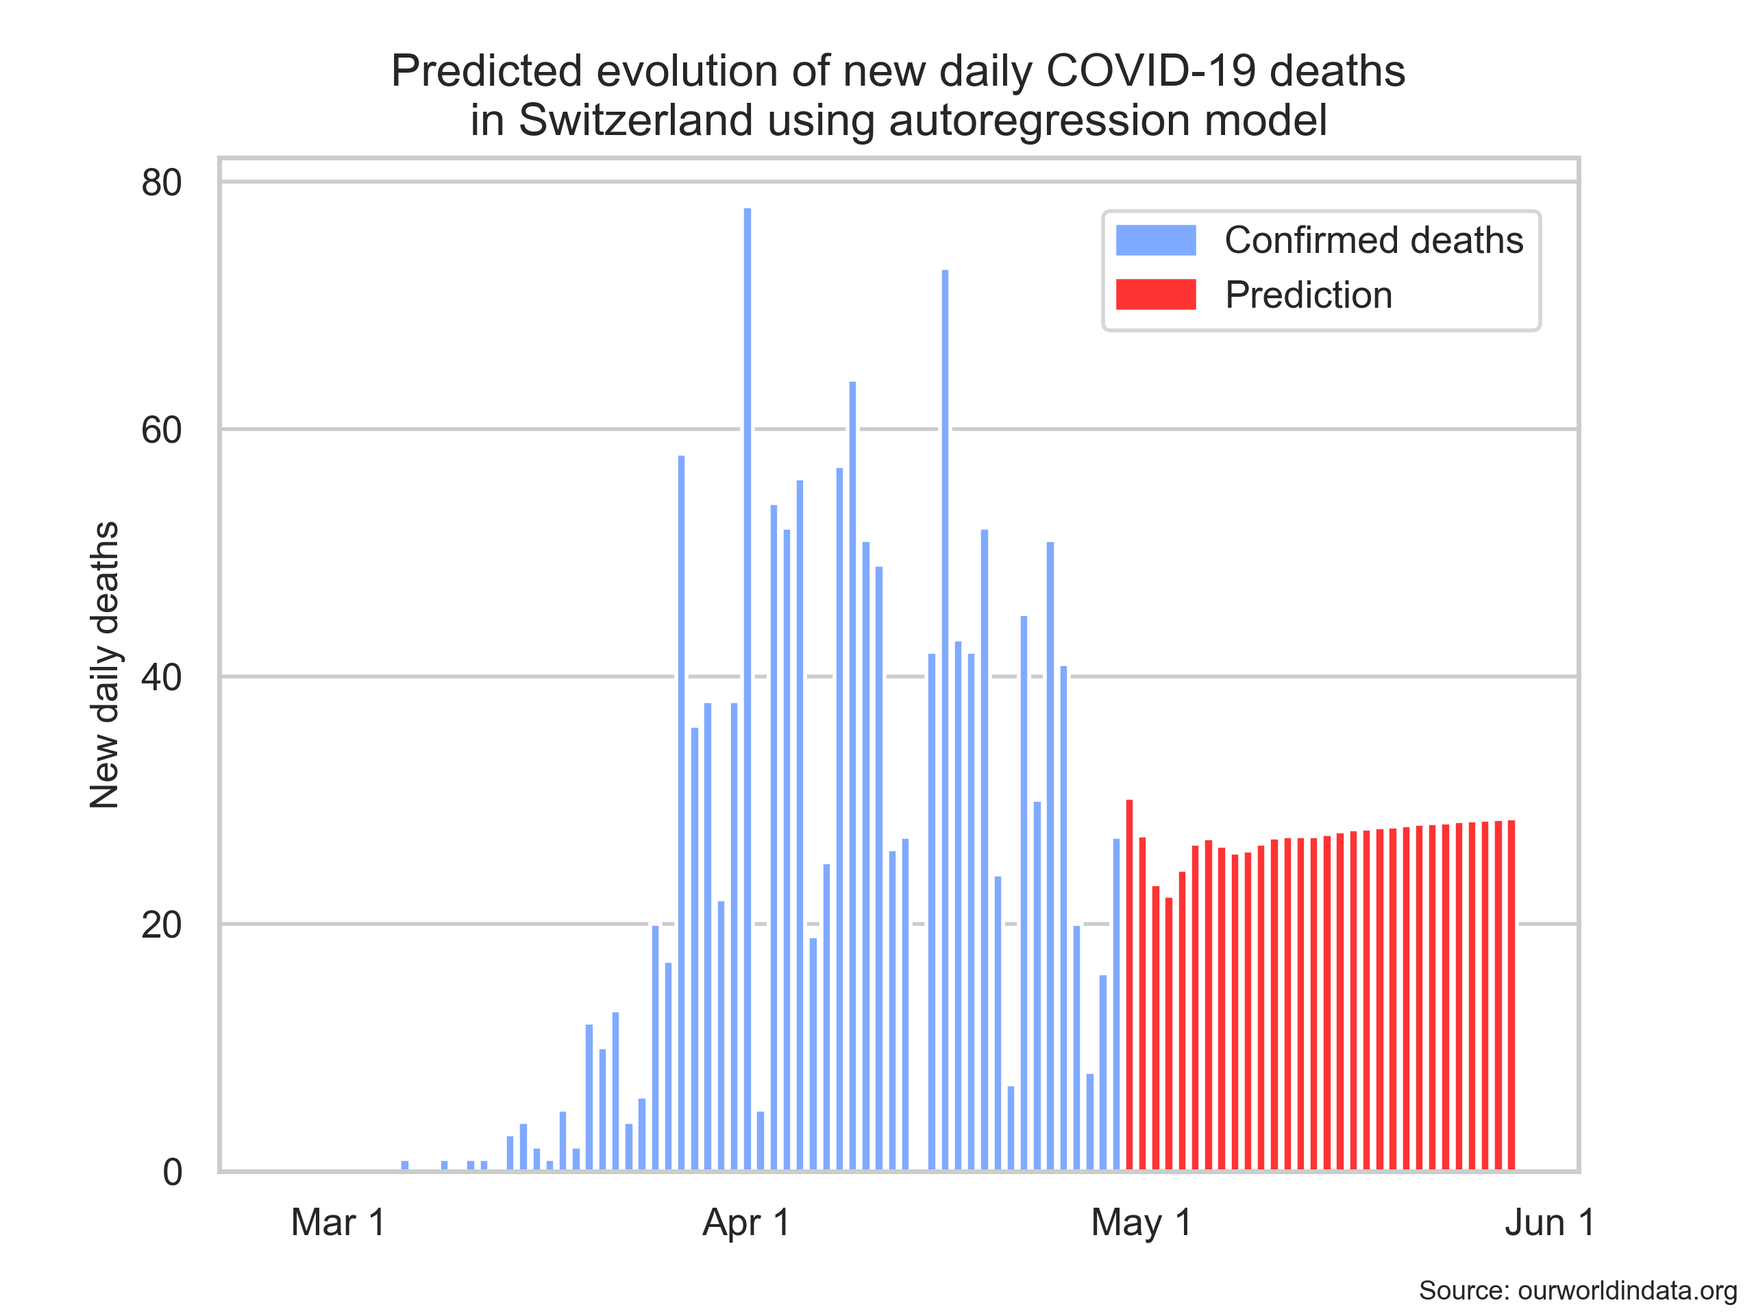
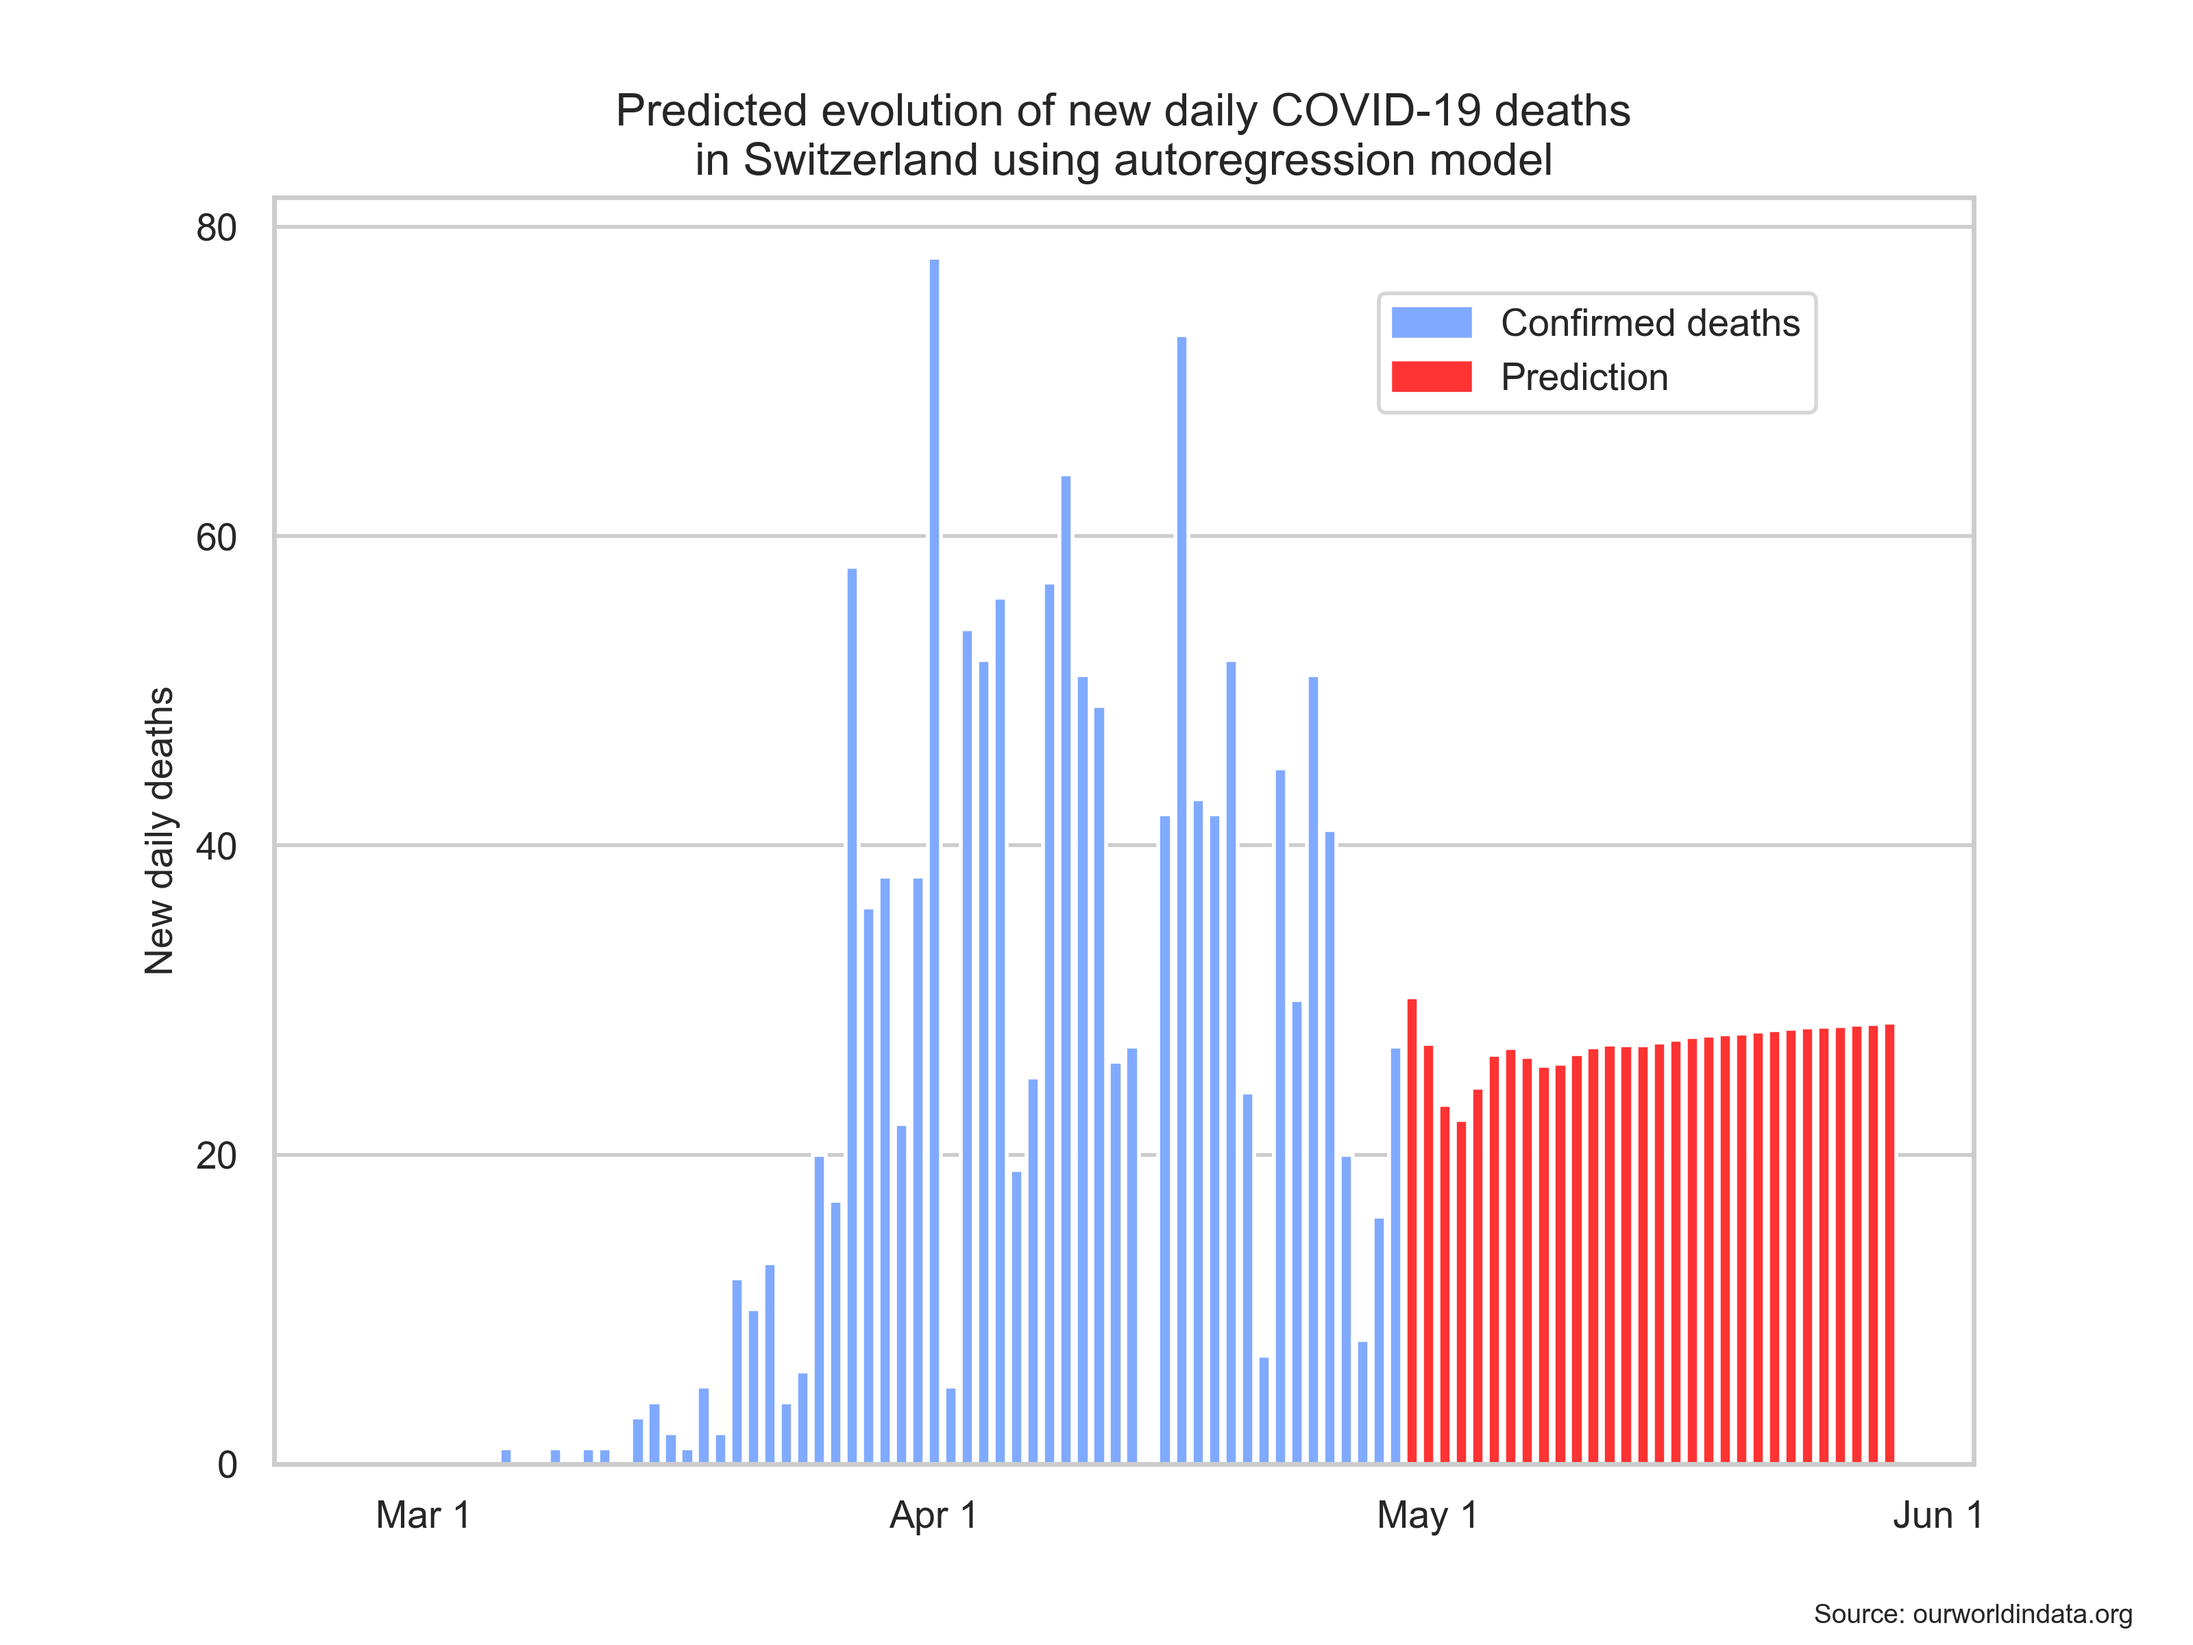
up

diff --git a/peter_work_in_progress/utils.py b/peter_work_in_progress/utils.py
@@ -15,7 +15,7 @@ def convert_dates(data):
         data.at[index,'date'] = row['date'][-2:] + months[row['date'][5:7]]
     return data
 
-def save_ch_neighbours(filename='ourworldindatadeathetc.csv'):
+def save_ch_neighbours(anim=False, filename='ourworldindatadeathetc.csv'):
     df = pd.read_csv(filename)
     che = df.loc[df['location'] == 'Switzerland']
     fra = df.loc[df['location'] == 'France']
@@ -28,10 +28,18 @@ def save_ch_neighbours(filename='ourworldindatadeathetc.csv'):
     codes = ['che', 'fra', 'ita', 'ger', 'aut', 'lie']
 
     for i in range(len(countries)):
-        convert_dates(drop_prepandemic_dates(countries[i])).to_csv('%s.csv'%(codes[i]))
+        if anim:
+            convert_dates(drop_prepandemic_dates(countries[i])).to_csv('%s_anim.csv' % (codes[i]))
+        else:
+            convert_dates(drop_prepandemic_dates(countries[i])).to_csv('%s.csv'%(codes[i]))
 
-def load_ch_neighbours():
-    return pd.read_csv('che.csv'), pd.read_csv('fra.csv'),\
-           pd.read_csv('ita.csv'), pd.read_csv('ger.csv'),\
-           pd.read_csv('aut.csv'), pd.read_csv('lie.csv')
+def load_ch_neighbours(anim=False):
+    if anim:
+        return [pd.read_csv('che_anim.csv'), pd.read_csv('fra_anim.csv'), \
+               pd.read_csv('ita_anim.csv'), pd.read_csv('ger_anim.csv'), \
+               pd.read_csv('aut_anim.csv'), pd.read_csv('lie_anim.csv')]
+    else:
+        return pd.read_csv('che.csv'), pd.read_csv('fra.csv'),\
+               pd.read_csv('ita.csv'), pd.read_csv('ger.csv'),\
+               pd.read_csv('aut.csv'), pd.read_csv('lie.csv')
 

diff --git a/final_scripts/survey_fear.py b/final_scripts/survey_fear.py
@@ -6,14 +6,14 @@ import numpy as np
 data = pd.read_csv('../data/survey_fear.csv')
 
 sns.set(style="whitegrid")
-
-ax = sns.barplot(x="label", y="val", data=data, color=(128/255,170/255,255/255))
+fig, ax = plt.subplots(figsize=(8,6))
+sns.barplot(x="label", y="val", data=data, color=(128/255,170/255,255/255), ax=ax)
 ax.set_title('Does the coronavirus (COVID-19) scare you?', fontsize=12)
 ax.set_xlabel('1-3 = no; 4-6 = yes', fontsize=10)
 ax.set_xticklabels(['1= no, not at all',2 ,3, 4, 5, '6= yes, very'], fontsize=10)
 ax.set_ylabel('Share of respondents', fontsize=10)
-ax.set_yticks(np.arange(0,60,10))
-ax.set_yticklabels([str(el)+'%' for el in np.arange(0,60,10)], fontsize=10)
+ax.set_yticks(np.arange(0,35,10))
+ax.set_yticklabels([str(el)+'%' for el in np.arange(0,35,10)], fontsize=10)
 
 for p in ax.patches:
     height = p.get_height()
@@ -21,14 +21,13 @@ for p in ax.patches:
             height + 1, str(int(height))+'%',
             ha="center", size=9)
 
-plt.text(0.98, -0.13, 'Source: dieMarktforscher.org',
+plt.text(1, -0.12, 'Source: dieMarktforscher.org',
          horizontalalignment='center',
          verticalalignment='center', transform=ax.transAxes, size=7)
 
-plt.text(0.12, -0.13, 'Details: Switzerland; March 9-11; 18-69 years; 520 respondents',
+plt.text(0.1, -0.12, 'Details: Switzerland; March 9-11; 18-69 years; 520 respondents',
          horizontalalignment='center',
          verticalalignment='center', transform=ax.transAxes, size=7)
-
 
 plt.savefig('survey_fear.png', dpi=400)
 

diff --git a/final_scripts/survey_leadership.py b/final_scripts/survey_leadership.py
@@ -6,14 +6,15 @@ import numpy as np
 data = pd.read_csv('../data/survey_leadership.csv')
 
 sns.set(style="whitegrid")
+fig, ax = plt.subplots(figsize=(8,6))
 
-ax = sns.barplot(x="label", y="val", data=data, color=(128/255,170/255,255/255))
+sns.barplot(x="label", y="val", data=data, color=(128/255,170/255,255/255), ax=ax)
 ax.set_title('How strong is your trust in the political leadership\nin terms of COVID-19 crisis?', fontsize=12)
 ax.set_xlabel('')
 ax.set_xticklabels([el for el in data['label']], size=10)
 ax.set_ylabel('Share of respondents', fontsize=10)
-ax.set_yticks(np.arange(0,60,10))
-ax.set_yticklabels([str(el)+'%' for el in np.arange(0,60,10)], fontsize=10)
+ax.set_yticks(np.arange(0,55,10))
+ax.set_yticklabels([str(el)+'%' for el in np.arange(0,55,10)], fontsize=10)
 
 for p in ax.patches:
     height = p.get_height()
@@ -21,11 +22,11 @@ for p in ax.patches:
             height + 1, str(int(height))+'%',
             ha="center", size=9)
 
-plt.text(0.88, -0.12, 'Source: SRG SSR, Die Schweiz und die Corona-Krise',
+plt.text(0.92, -0.12, 'Source: SRG SSR, Die Schweiz und die Corona-Krise',
          horizontalalignment='center',
          verticalalignment='center', transform=ax.transAxes, size=7)
 
-plt.text(0.15, -0.12, 'Details: March 21-23, 2020; 30460 respondents; 15 years and older',
+plt.text(0.1, -0.12, 'Details: March 21-23, 2020; 30460 respondents; 15 years and older',
          horizontalalignment='center',
          verticalalignment='center', transform=ax.transAxes, size=7)
 

diff --git a/final_scripts/survey_bankruptcy.py b/final_scripts/survey_bankruptcy.py
@@ -6,8 +6,9 @@ import numpy as np
 data = pd.read_csv('survey_bankruptcy.csv')
 
 sns.set(style="whitegrid")
+fig, ax = plt.subplots(figsize=(8,6))
 
-ax = sns.barplot(x="label", y="val", data=data, color=(128/255,170/255,255/255))
+sns.barplot(x="label", y="val", data=data, color=(128/255,170/255,255/255), ax=ax)
 ax.set_title('In your opinion, how high is the likelihood of bankruptcy?', fontsize=12)
 ax.set_xlabel('')
 ax.set_xticklabels([el for el in data['label']], size=7)
@@ -21,15 +22,15 @@ for p in ax.patches:
             height + 1, str(int(height))+'%',
             ha="center", size=9)
 
-plt.text(1, -0.11, 'Source: Wirtschaftliche Auswirkungen\n'
+plt.text(0.98, -0.105, 'Source: Wirtschaftliche Auswirkungen\n'
                       'der Coronavirus-Krise\n'
                       'auf den Schweizer Tourismus 2020',
          horizontalalignment='center',
-         verticalalignment='center', transform=ax.transAxes, size=5)
+         verticalalignment='center', transform=ax.transAxes, size=7)
 
-plt.text(0., -0.129, 'Details: March 23-24, 2020; 2046 establishments',
+plt.text(0.03, -0.125, 'Details: March 23-24, 2020; 2046 establishments',
          horizontalalignment='center',
-         verticalalignment='center', transform=ax.transAxes, size=5)
+         verticalalignment='center', transform=ax.transAxes, size=7)
 
 
 plt.savefig('survey_bankruptcy.png', dpi=400)

diff --git a/peter_work_in_progress/trials.py b/peter_work_in_progress/trials.py
@@ -1,16 +1,3 @@
-import pandas as pd
+from utils import save_ch_neighbours
 
-# initialize list of lists
-political_leadership = [['Very weak', 6], ['Weak', 9], ['Neutral', 22], ['Strong', 40], ['Very strong', 23]]
-bankruptcy = [['Holiday homes,\napartments,\nhostels etc.', 9], ['Mountain\nrailway/carrier', 13],
-              ['Other categories', 19], ['Hotels', 23], ['Gastronomy', 27], ['Shipping', 40]]
-fear = [[1,19], [2,21], [3,17], [4,24], [5,13], [6,7]]
-
-# Create the pandas DataFrame
-df1 = pd.DataFrame(political_leadership, columns=['label', 'val'])
-df2 = pd.DataFrame(bankruptcy, columns=['label', 'val'])
-df3 = pd.DataFrame(fear, columns=['label', 'val'])
-# print dataframe.
-#df1.to_csv('survey_leadership.csv')
-#df2.to_csv('survey_bankruptcy.csv')
-df3.to_csv('survey_fear.csv')
+save_ch_neighbours(anim=True)

diff --git a/final_plots/new_daily_cases_deaths.py b/final_plots/new_daily_cases_deaths.py
@@ -9,12 +9,12 @@ new_deaths = data[['date','new_deaths']]
 dates = data['date']
 
 sns.set(style="whitegrid")
-fig, ax = plt.subplots()
+fig, ax = plt.subplots(figsize=(8,6))
 sns.barplot(x='date', y='new_cases', data=new_cases, color=(128/255,170/255,255/255), ax=ax)
 sns.barplot(x='date',y='new_deaths', data=new_deaths, color=(255/255,51/255,51/255), ax=ax)
 ax.set_title('New daily COVID-19 cases and deaths in Switzerland', fontsize=12)
-ax.set_xticks(np.arange(0,len(data['date']),15))
-ax.set_xticklabels(['Feb 26', 'Mar 12', 'Mar 27', 'Apr 11', 'Apr 26'], fontsize=10)
+ax.set_xticks([4,35,65])
+ax.set_xticklabels(['Mar 1', 'Apr 1', 'May 1'], fontsize=10)
 ax.set_xlabel('', fontsize=0)
 ax.set_ylabel('New confirmed cases/deaths', fontsize=10)
 

diff --git a/peter_work_in_progress/cases_animation.py b/peter_work_in_progress/cases_animation.py
@@ -1,0 +1,31 @@
+from utils import load_ch_neighbours
+import seaborn as sns
+import matplotlib.pyplot as plt
+import numpy as np
+
+data = load_ch_neighbours(anim=True)
+dates = data[1]['date']
+
+for i in range(len(data)):
+    data[i] = np.asarray(data[i]['new_cases'])
+    data[i] = np.pad(data[i], (96-len(data[i]), 0), 'constant', constant_values=(0, 0))
+x = np.arange(0,len(dates),1)
+y = data[0]
+
+
+def plot(x, y, index):
+    sns.set(style="whitegrid")
+    x = x[0:index+1]
+    y = y[0:index+1]
+    fig, ax = plt.subplots()
+    ax.plot(x,y)
+
+for i in range(len(x)):
+    plot(x,y,i)
+    plt.savefig('animation/anim%d.png'%(i), dpi=400)
+    plt.clf()
+
+
+
+
+

diff --git a/final_scripts/prediction_smoothing_deaths.py b/final_scripts/prediction_smoothing_deaths.py
@@ -16,7 +16,7 @@ model_fit = model.fit(smoothing_level=0.6, optimized=True)
 pred = model_fit.predict(len(x), len(x)+throwback-1)
 
 sns.set(style="whitegrid")
-fig, ax = plt.subplots()
+fig, ax = plt.subplots(figsize=(8,6))
 ax.bar(np.arange(0,len(x),1), x, color=(128/255,170/255,255/255))
 ax.bar(np.arange(len(x),len(x)+throwback,1), pred, color=(255/255,51/255,51/255))
 ax.set_title('Predicted evolution of new daily COVID-19 deaths\n'

diff --git a/final_scripts/prediction_smoothing_cases.py b/final_scripts/prediction_smoothing_cases.py
@@ -16,7 +16,7 @@ model_fit = model.fit(smoothing_level=0.6, optimized=True)
 pred = model_fit.predict(len(x), len(x)+throwback-1)
 
 sns.set(style="whitegrid")
-fig, ax = plt.subplots()
+fig, ax = plt.subplots(figsize=(8,6))
 ax.bar(np.arange(0,len(x),1), x, color=(128/255,170/255,255/255))
 ax.bar(np.arange(len(x),len(x)+throwback,1), pred, color=(255/255,51/255,51/255))
 ax.set_title('Predicted evolution of new daily COVID-19 cases\n'

diff --git a/final_scripts/prediction_arma_deaths.py b/final_scripts/prediction_arma_deaths.py
@@ -16,7 +16,7 @@ model_fit = model.fit(disp=False)
 pred = model_fit.predict(len(x), len(x)+throwback-1)
 
 sns.set(style="whitegrid")
-fig, ax = plt.subplots()
+fig, ax = plt.subplots(figsize=(8,6))
 ax.bar(np.arange(0,len(x),1), x, color=(128/255,170/255,255/255))
 ax.bar(np.arange(len(x),len(x)+throwback,1), pred, color=(255/255,51/255,51/255))
 ax.set_title('Predicted evolution of new daily COVID-19 deaths\n'

diff --git a/final_scripts/prediction_arma_cases.py b/final_scripts/prediction_arma_cases.py
@@ -16,7 +16,7 @@ model_fit = model.fit(disp=False)
 pred = model_fit.predict(len(x), len(x)+throwback-1)
 
 sns.set(style="whitegrid")
-fig, ax = plt.subplots()
+fig, ax = plt.subplots(figsize=(8,6))
 ax.bar(np.arange(0,len(x),1), x, color=(128/255,170/255,255/255))
 ax.bar(np.arange(len(x),len(x)+throwback,1), pred, color=(255/255,51/255,51/255))
 ax.set_title('Predicted evolution of new daily COVID-19 cases\n'

diff --git a/final_scripts/prediction_autoreg_deaths.py b/final_scripts/prediction_autoreg_deaths.py
@@ -16,7 +16,7 @@ model_fit = model.fit()
 pred = model_fit.predict(len(x), len(x)+throwback-1)
 
 sns.set(style="whitegrid")
-fig, ax = plt.subplots()
+fig, ax = plt.subplots(figsize=(8,6))
 ax.bar(np.arange(0,len(x),1), x, color=(128/255,170/255,255/255))
 ax.bar(np.arange(len(x),len(x)+throwback,1), pred, color=(255/255,51/255,51/255))
 ax.set_title('Predicted evolution of new daily COVID-19 deaths\n'
